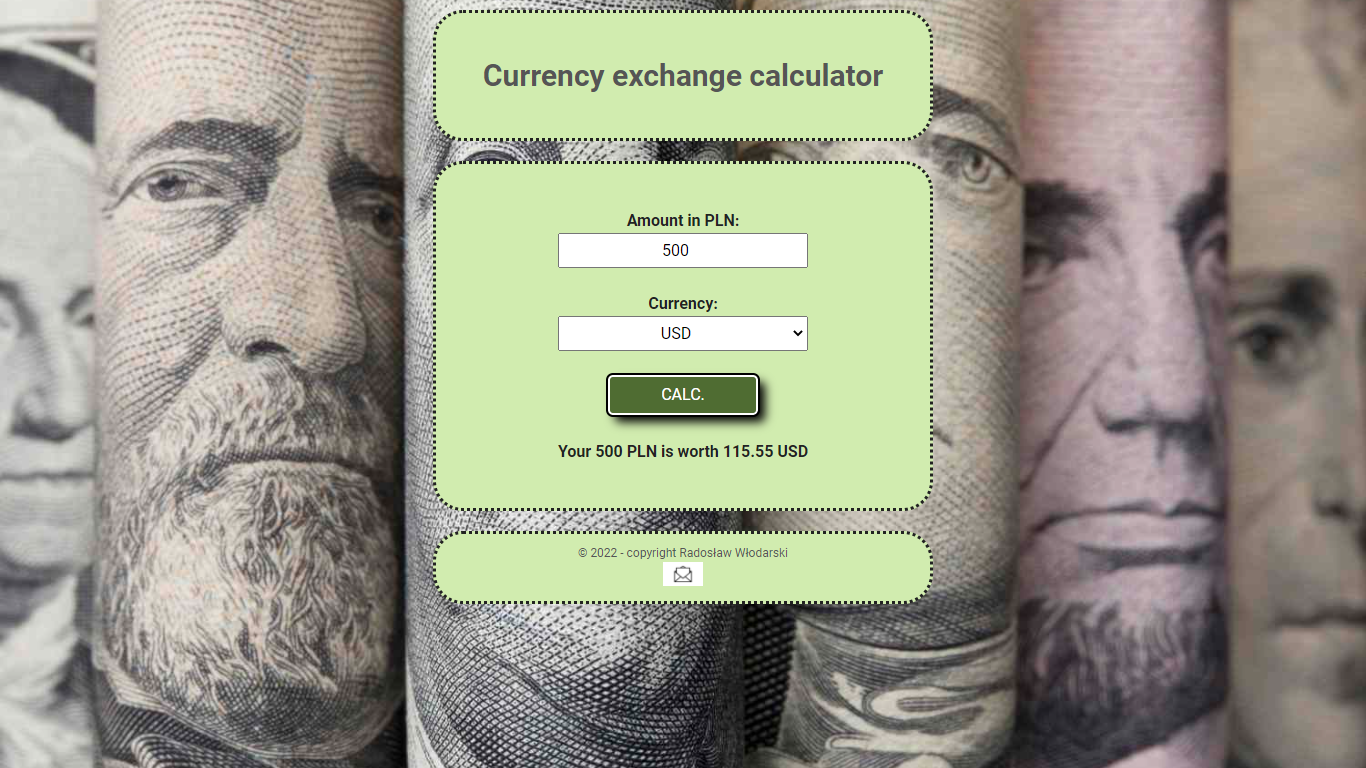
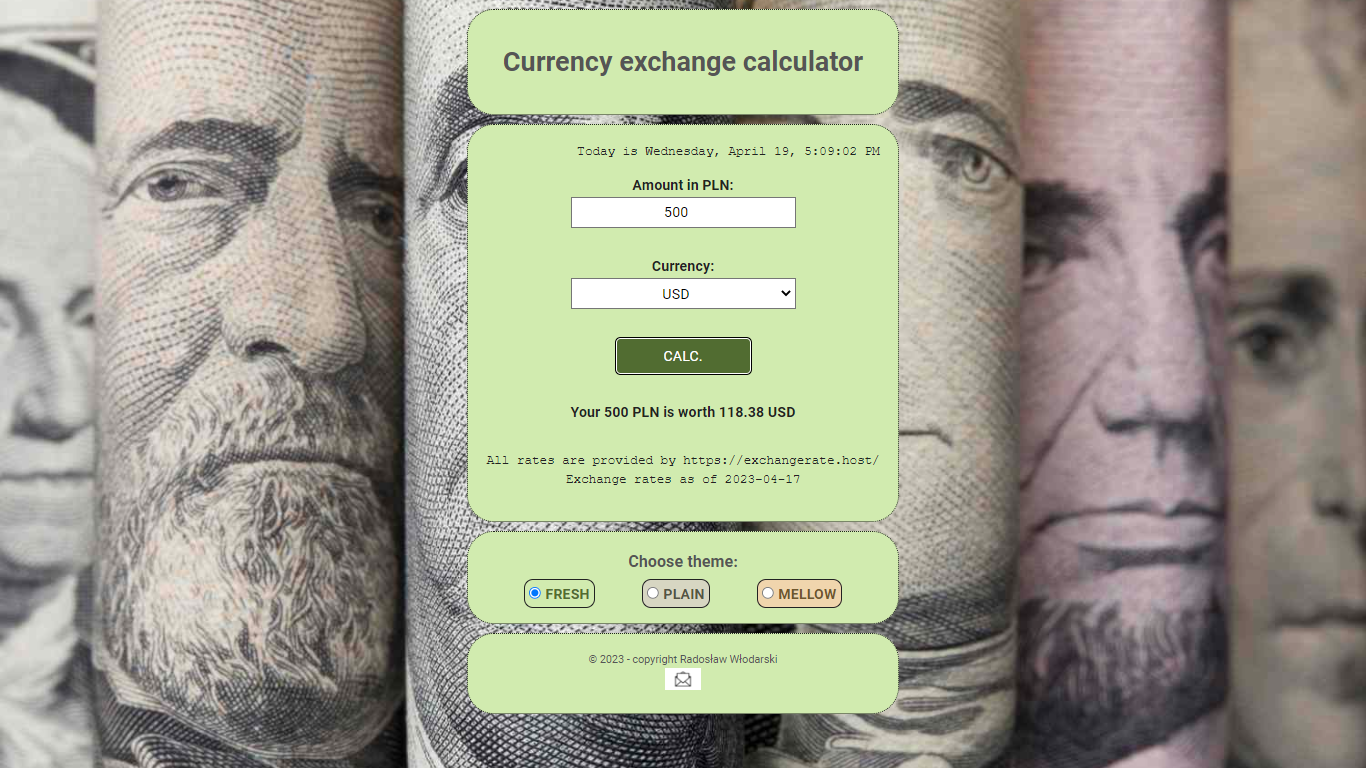
updated readme

Changed region(s): [[0.3075, 0.0, 0.7072, 0.9375]]

diff --git a/README.md b/README.md
@@ -4,12 +4,13 @@
 [click to visit](https://radekw86.github.io/currency-converter-basic-react/)
 
 ## General info:
-This basic calculator allows you to convert 1-1000 PLN into respective USD, EUR, GBP, CHF values.
+This currency exchange calculator allows you to convert PLN into respective USD, EUR, GBP, CHF values. All rates are imported from exchangerate.host api.
+Additional functionalities: current date 'n' time display, theme selector coupled with the local storage, loading/error alert Component.
 ## Technologies:
 <ul>
 <li>html</li>
 <li>JS ES6+</li>
-<li>React.js</li>
+<li>React.js - useState, useEffect, custom Hooks</li>
 <li>Styled Components</li>
 </ul>
 
